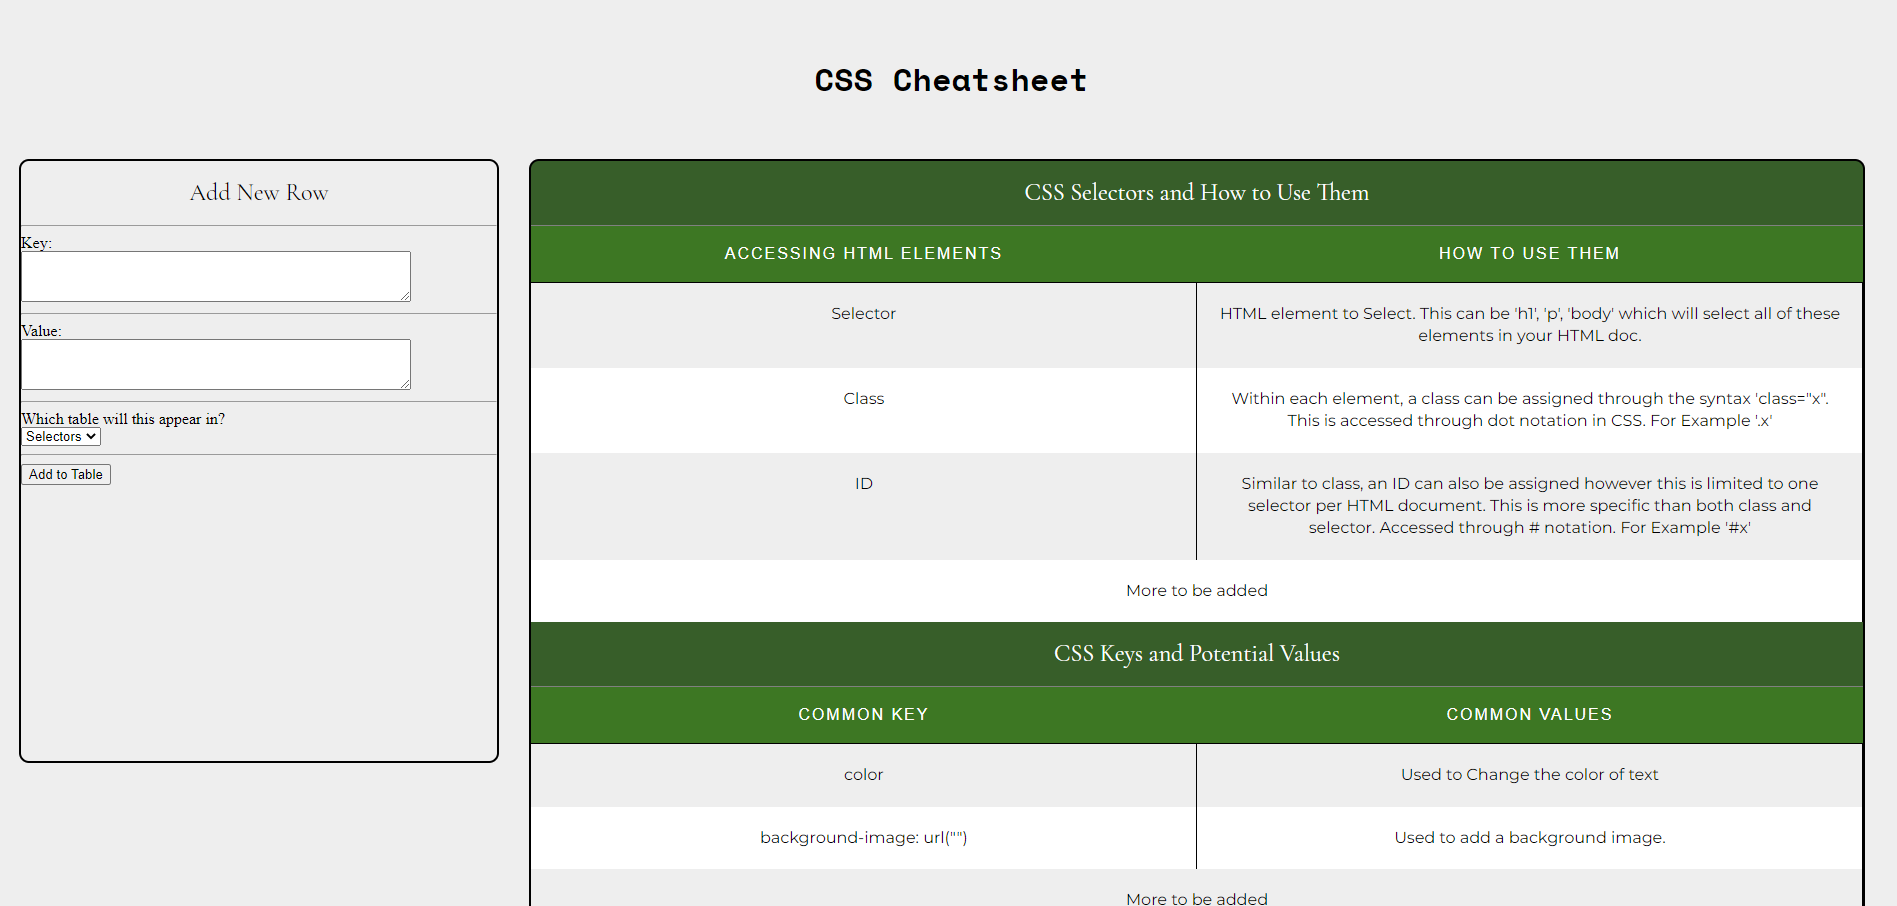
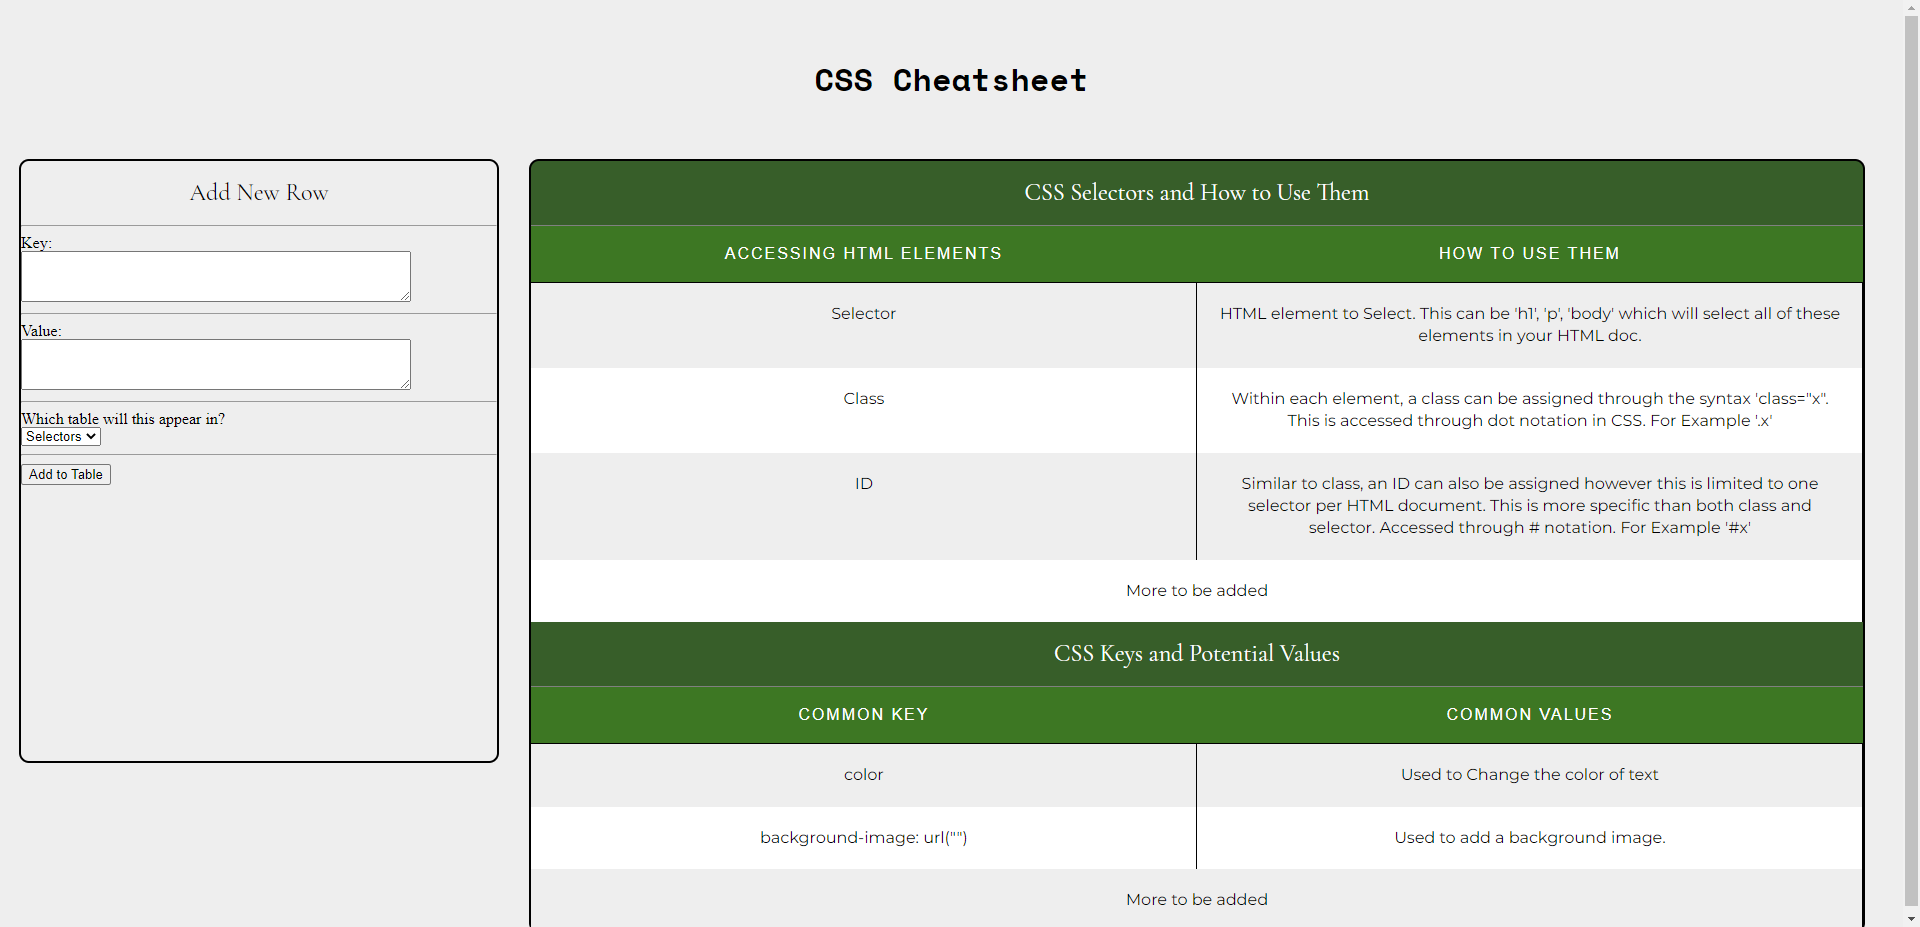
updated images of projects

diff --git a/index.html b/index.html
@@ -52,16 +52,15 @@
                     </div>
                 </div>
             </div>
-            <!-- <div class="codingpic">Picture of coding someting to be put in here</div> -->
             <div class="flex" id="projects">
                 <h2>Projects I have completed</h2>
                 <p>Note that these are in the process of being updated as I am learning and growing as a developer!</p>
                 <div class="holder">
                     <div class="box"><a href="./Ellis Hair New/HTML/index.html"><img src="./Media/ellishairnew.png" alt="ellis hair">Ellis Thom Hair Studio</a>
                     <p>This is a website that is for a friend. She does not yet know what about this website as she plucks up the courage to quit her job and start herself!</p></div>
-                    <div class="box"><a href="./Mixed Messages/index.html"><img src="./Ellis Hair/Images/mixedmessagesscreenshot20220107.png" alt="mixed Messages">Mixed Messages</a>
+                    <div class="box"><a href="./Mixed Messages/index.html"><img src="./Media/randomnew.png" alt="mixed Messages">Mixed Messages</a>
                     <p>What would happen if certain players played in other leagues? This was a Codecademy Javascript challenge however all JS has been implemented by me and then the HTML/CSS has been implemented afterward. To be Updated.</p></div>
-                    <div class="box"><a href="./Cheatsheet/index.html"><img src="./Media/css cheatsheet.png" alt="css cheatsheet">CSS Cheatsheet</a><p>Another Codecademy Project. The functionality has not been included on this website yet however it is in the plans to complete the back-end learning and then link this table to a database which I can add to.</p></div>
+                    <div class="box"><a href="./Cheatsheet/index.html"><img src="./Media/css cheatsheet new.png" alt="css cheatsheet">CSS Cheatsheet</a><p>Another Codecademy Project. The functionality has not been included on this website yet however it is in the plans to complete the back-end learning and then link this table to a database which I can add to.</p></div>
                 </div>
             </div>
             <section class="contact">
